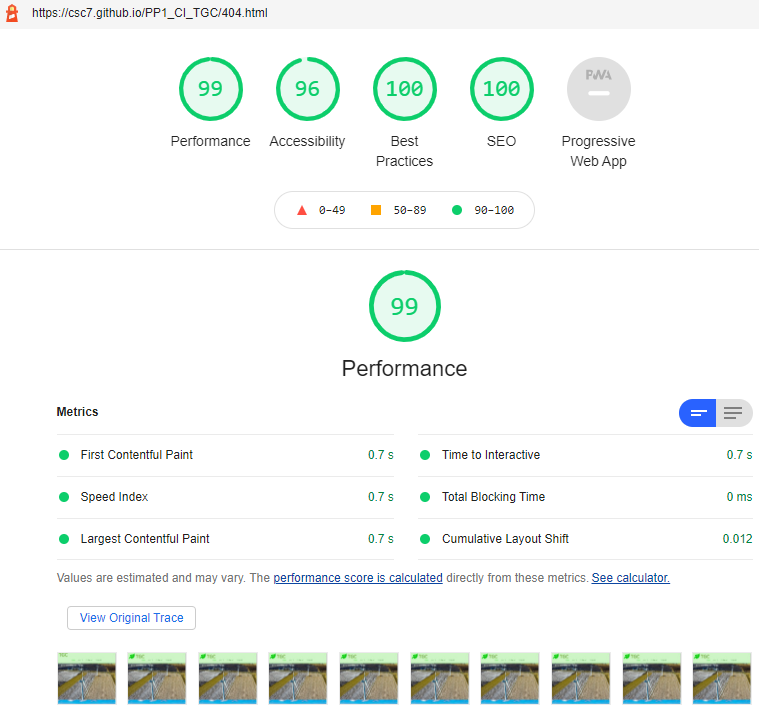
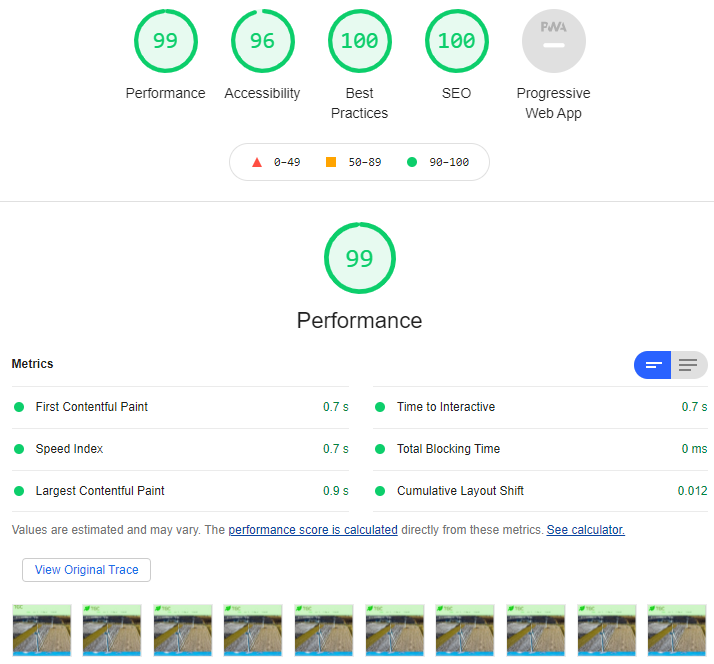
Update validation images and corresponding README file section for 404 page

diff --git a/README.md b/README.md
@@ -605,7 +605,7 @@ Google Lighthouse (used in Google, Microsoft Edge and Firefox) were used to eval
 </details>
 
 <details>
-    <summary>404 Page for Mobile (84)</summary>
+    <summary>404 Page for Mobile (95, although it has been observed values from 84 to 99)</summary>
 
 ![Evidence of no accessibility errors in the 404 file](docs/validation/validation-404-performance-mobile.PNG) 
 </details>
